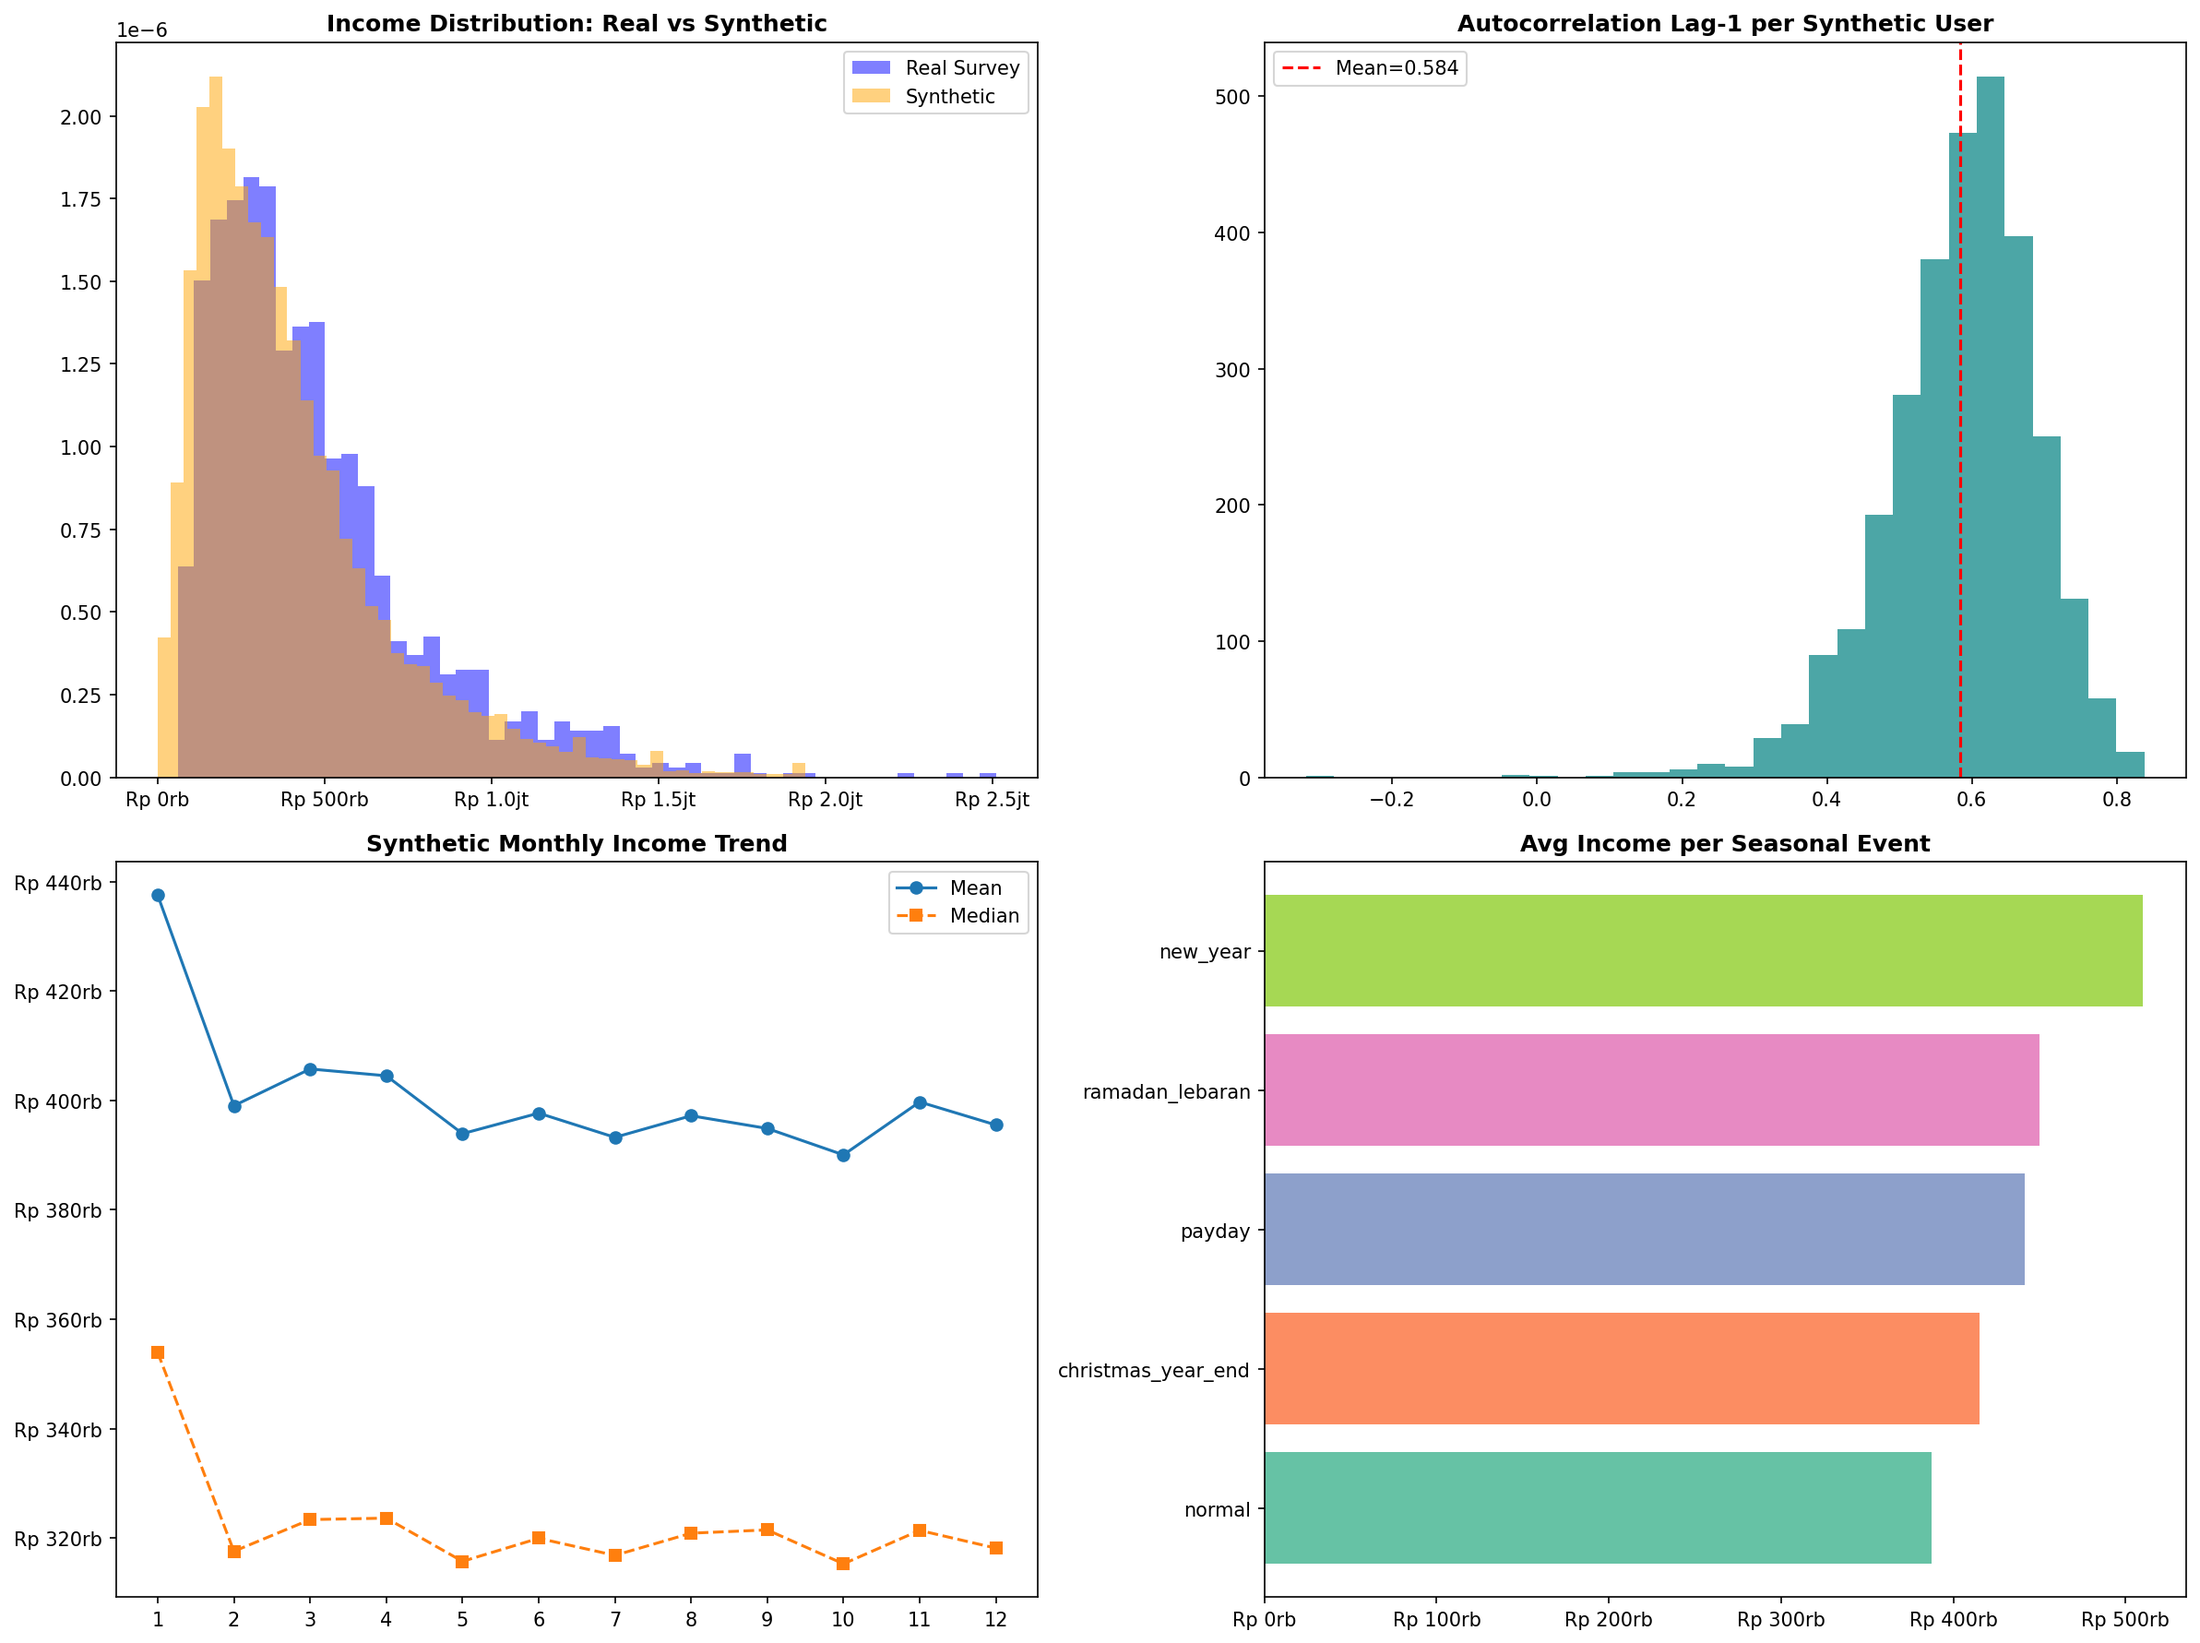
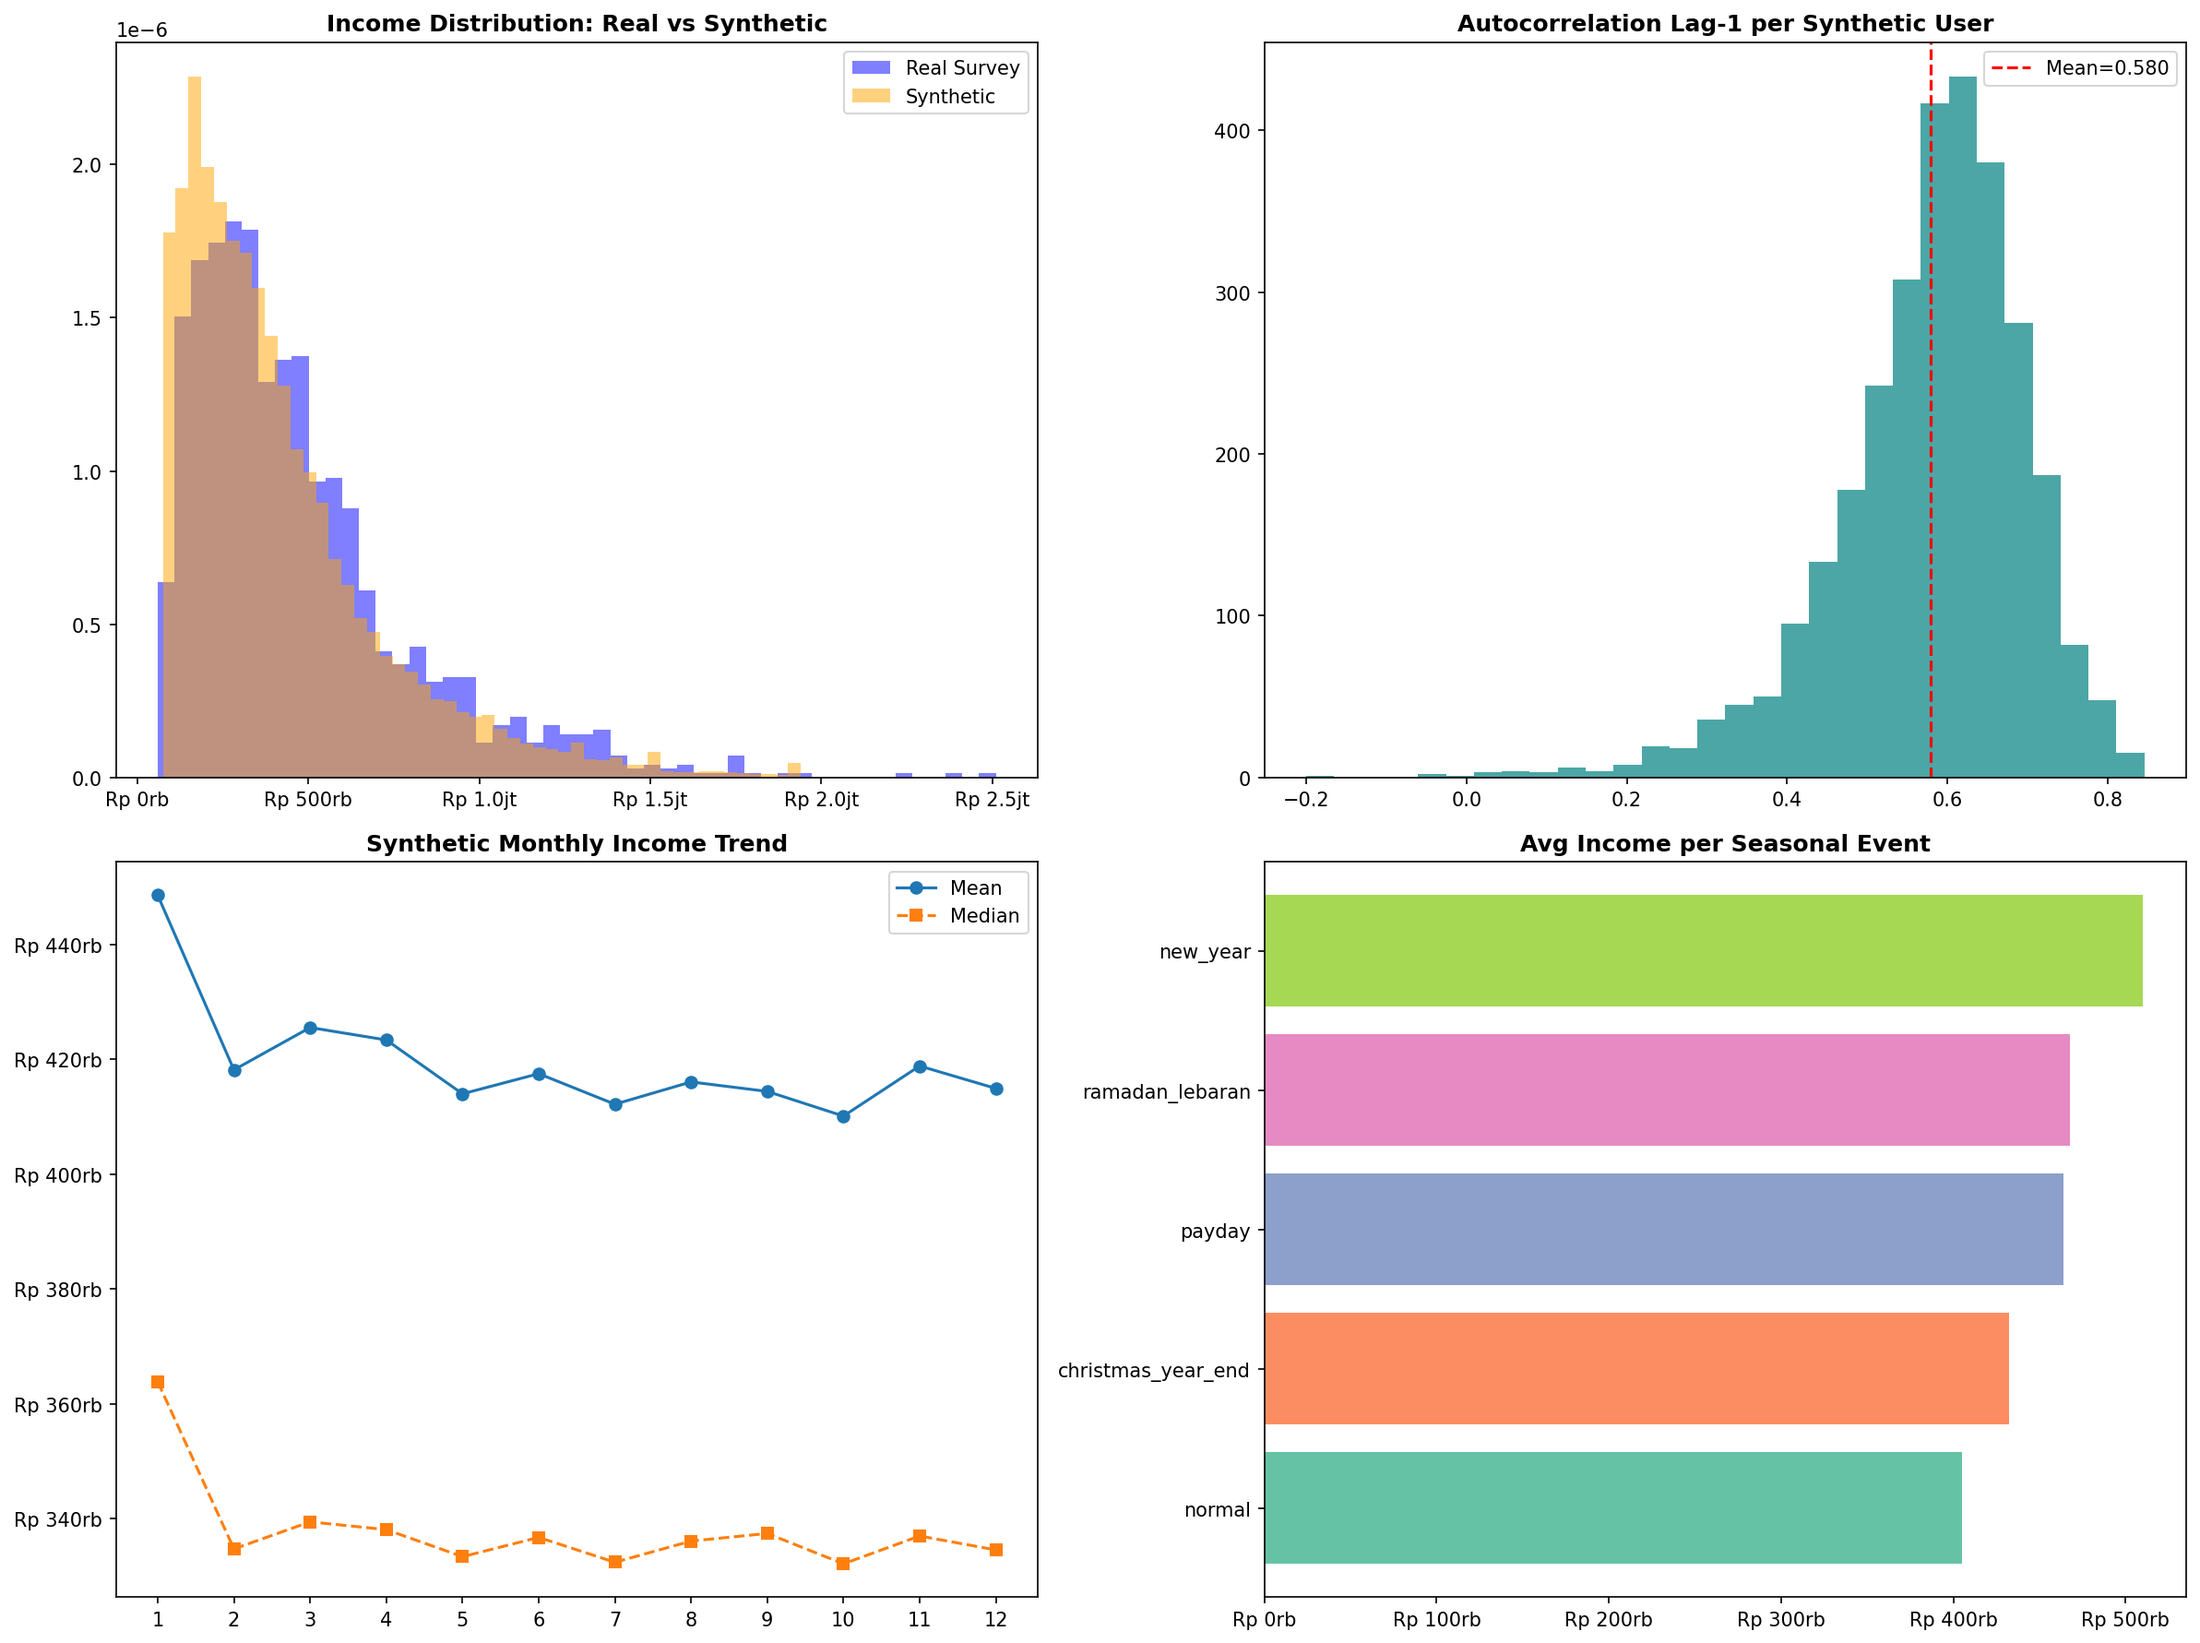
feat(DS2): rewrite output terbaru dari 07_Bias_Validation.ipynb

diff --git a/outputs/reports/bias_validation_report.md b/outputs/reports/bias_validation_report.md
@@ -1,10 +1,11 @@
 # Bias Validation Report — Fingo Income Predictor
 
 ## Test Results
-1. **Mean vs BPS**: ratio synthetic/BPS = 3.06 (FAIL)
-2. **Distribution (KS)**: stat=0.1334, p=0.0000 (toleransi: synthetic 52w vs real 4w snapshot)
+0. **Income Floor Sanity Check**: min=75,000, rows<50k=0 (PASS),
+1. **Mean vs BPS**: ratio synthetic/BPS = 3.20 (FAIL)
+2. **Distribution (KS)**: stat=0.1028, p=0.0000 (toleransi: synthetic 52w vs real 4w snapshot)
 3. **Seasonal direction**: Ramadan > Normal = PASS
-4. **Autocorrelation lag-1**: 0.5844 (PASS, expected 0.30-0.90)
+4. **Autocorrelation lag-1**: 0.5796 (PASS, expected 0.30-0.90)
 5. **BPS range per domisili**: lihat `outputs/reports/bps_range_validation.csv`
 6. **Income per gig_type**: lihat `outputs/reports/gig_type_income_validation.csv`
 
